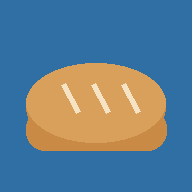
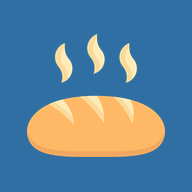
Add files via upload

diff --git a/public/index.html b/public/index.html
@@ -5,13 +5,14 @@
 <link rel="manifest" href="manifest.json">
 <meta name="theme-color" content="#2f6fa3">
 <script>try{var t=localStorage.getItem("bb-theme");if(t==="light"||t==="dark")document.documentElement.setAttribute("data-theme",t)}catch(e){}</script>
-<link rel="apple-touch-icon" href="icon-192.png">
+<link rel="icon" type="image/png" href="icon-192.png">
+<link rel="apple-touch-icon" href="icon-180.png">
 <meta name="apple-mobile-web-app-capable" content="yes">
 <meta name="viewport" content="width=device-width, initial-scale=1, viewport-fit=cover">
-<title>Sourdough Tracker</title>
+<title>Sourdough</title>
 <style>
[1 lines of base64/hex data omitted]
-:root{--bg:#ffffff;--card:#fff;--ink:#1d2b3a;--mute:#5d6e80;--line:#dbe3ec;--div:#c3cbd5;--acc:#2f6fa3;--accbg:#d9e9f7;--ok:#dcefe4;--warn:#fdf0bd;--green:#25634a;--hh:56px;--sw:280px;--hdr:#2f6fa3;--brand:'Lily Script One','Brush Script MT','Segoe Script',cursive;--hov:#f0f3f7;--tsh:-1.5px -1.5px 0 #0a1722,1.5px -1.5px 0 #0a1722,-1.5px 1.5px 0 #0a1722,1.5px 1.5px 0 #0a1722,0 -1.5px 0 #0a1722,0 1.5px 0 #0a1722,-1.5px 0 0 #0a1722,1.5px 0 0 #0a1722,2px 2px 0 #0a1722,3px 3px 0 #0a1722,4px 4px 0 #0a1722;box-sizing:border-box}
[1 lines of base64/hex data omitted]
+:root{--bg:#ffffff;--card:#fff;--ink:#1d2b3a;--mute:#5d6e80;--line:#dbe3ec;--div:#c3cbd5;--acc:#2f6fa3;--accbg:#d9e9f7;--ok:#dcefe4;--warn:#fdf0bd;--green:#25634a;--hh:56px;--sw:280px;--hdr:#2f6fa3;--brand:'Scenesa','Arial Black',Arial,sans-serif;--hov:#f0f3f7;--tsh:-1.5px -1.5px 0 #0a1722,1.5px -1.5px 0 #0a1722,-1.5px 1.5px 0 #0a1722,1.5px 1.5px 0 #0a1722,0 -1.5px 0 #0a1722,0 1.5px 0 #0a1722,-1.5px 0 0 #0a1722,1.5px 0 0 #0a1722,2px 2px 0 #0a1722,3px 3px 0 #0a1722,4px 4px 0 #0a1722;box-sizing:border-box}
 @media (prefers-color-scheme:dark){:root:not([data-theme="light"]){--bg:#121a23;--card:#1b2530;--ink:#e8eef5;--mute:#93a3b5;--line:#2c3947;--div:#3d4b5b;--acc:#7db6e8;--accbg:#264662;--ok:#1f3a2d;--warn:#4a3f17;--green:#7fd1ad;--hdr:#1f4a6e;--hov:#121a23;--btnink:#0b1a28}}:root[data-theme="dark"]{--bg:#121a23;--card:#1b2530;--ink:#e8eef5;--mute:#93a3b5;--line:#2c3947;--div:#3d4b5b;--acc:#7db6e8;--accbg:#264662;--ok:#1f3a2d;--warn:#4a3f17;--green:#7fd1ad;--hdr:#1f4a6e;--hov:#121a23;--btnink:#0b1a28;color-scheme:dark}:root[data-theme="light"]{color-scheme:light}
 *{box-sizing:border-box}html{scroll-padding-top:calc(var(--hh) + env(safe-area-inset-top,0px))}
 body{margin:0;background:var(--bg);color:var(--ink);font:16px/1.4 -apple-system,"Segoe UI",Roboto,sans-serif}
@@ -56,7 +57,7 @@ input,select,textarea{font:inherit;color:var(--ink);background:var(--card);borde
 details{margin-top:6px;font-size:13px}summary{color:var(--acc);cursor:pointer}
 .who{display:flex;align-items:center;gap:12px;margin-bottom:4px}.av{position:relative;width:46px;height:46px;border-radius:50%;background:var(--accbg);color:var(--acc);font-weight:700;font-size:20px;display:flex;align-items:center;justify-content:center;flex:none;overflow:hidden}.av img{position:absolute;inset:0;width:100%;height:100%;object-fit:cover}
 #top{position:fixed;top:0;left:0;right:0;z-index:30;height:calc(var(--hh) + env(safe-area-inset-top,0px));padding-top:env(safe-area-inset-top,0px);background:var(--hdr);color:#fff;display:flex;align-items:center;box-shadow:0 2px 6px rgba(0,0,0,.25)}
-#brand{width:var(--sw);flex:none;display:flex;align-items:center;gap:10px;padding:0 16px;font-weight:700;font-size:19px;white-space:nowrap}#brand img,.nbrand img{height:30px;width:auto}#brand span,.nbrand span{font-family:var(--brand);font-weight:400;font-size:24px;line-height:1.25;letter-spacing:.02em;color:#fff;text-shadow:var(--tsh)}
+#brand{width:var(--sw);flex:none;display:flex;align-items:center;gap:10px;padding:0 16px;font-weight:700;font-size:19px;white-space:nowrap}#brand img,.nbrand img{height:30px;width:auto}#brand span,.nbrand span{font-family:var(--brand);font-weight:400;font-size:24px;line-height:1.25;letter-spacing:.02em;color:#fff;text-shadow:none}
 #top h1{margin:0;font-size:20px;font-weight:700;white-space:nowrap;overflow:hidden;text-overflow:ellipsis;padding:0 16px}
 #mb{display:none;width:44px;height:44px;margin-left:6px;border:0;background:none;color:#fff;align-items:center;justify-content:center;cursor:pointer}#mb .ic{color:#fff;width:26px;height:26px}
 #nav{position:fixed;z-index:25;top:calc(var(--hh) + env(safe-area-inset-top,0px));bottom:0;left:0;width:var(--sw);background:var(--card);border-right:1px solid var(--div);overflow-y:auto;padding:8px 0 calc(12px + env(safe-area-inset-bottom,0px))}
@@ -115,10 +116,11 @@ body.out #ha{display:none}
 .mk .ic{color:var(--acc);fill:var(--acc);opacity:.4}.mk.done .ic,.mk.cur .ic{opacity:1}
 #top h1.long{white-space:normal;font-size:16px;line-height:1.2;display:-webkit-box;-webkit-line-clamp:2;-webkit-box-orient:vertical}
 .mk .ic{overflow:visible}.mk{padding-bottom:8px}
+.so{display:inline-flex;align-items:center;gap:6px;font-size:13px;padding:7px 12px}.so .ic{width:16px;height:16px;color:inherit}
 </style>
 </head>
 <body>
-<header id="top"><button id="mb" aria-label="Menu" data-menu="1"></button><div id="brand"><img src="logo.png" alt=""><span>Sourdough Tracker</span></div><h1 id="ptitle"></h1><div id="ha"></div></header>
+<header id="top"><button id="mb" aria-label="Menu" data-menu="1"></button><div id="brand"><img src="logo.png" alt=""><span>Sourdough</span></div><h1 id="ptitle"></h1><div id="ha"></div></header>
 <div id="scrim" data-menu="0"></div>
 <nav id="nav" aria-label="Main menu"></nav>
 <main><div class="pg"><div class="note" id="sync"></div><div id="app"></div></div></main>
@@ -137,7 +139,7 @@ function save(){STS=Date.now();if(S.run&&S.run.rcp)S.run.mt=STS;persist();sched(
 function flush(){clearTimeout(stimer);if(FB&&USER)FB.pushSet(curSet(),STS)}
 function endRun(){S.run={mt:Date.now()};setBV(false)}
 function $(id){return document.getElementById(id)}
-var OZ=28.3495,VER='2026-11-28 build 27';
+var OZ=28.3495,VER='2026-11-28 build 29';
 function reloadApp(){var p=[];if(navigator.serviceWorker)p.push(navigator.serviceWorker.getRegistrations().then(function(a){return Promise.all(a.map(function(x){return x.unregister()}))}));if(window.caches)p.push(caches.keys().then(function(k){return Promise.all(k.filter(function(n){return n!=='bb-ph'}).map(function(n){return caches.delete(n)}))}));Promise.all(p).catch(function(){}).then(function(){location.reload()})}
 var ICP={flour:'M9 3h6l-1 3c2.5 1.5 4 4 4 7 0 4-2.5 8-6 8s-6-4-6-8c0-3 1.5-5.5 4-7zM9.5 6h5M10 13h4',
 wheat:'M12 22V8M12 8C10.5 6.8 10.5 4.8 12 3c1.5 1.8 1.5 3.8 0 5zM12 12c-2.5 0-4-1.5-4-4 2.5 0 4 1.5 4 4zM12 12c2.5 0 4-1.5 4-4-2.5 0-4 1.5-4 4zM12 17c-2.5 0-4-1.5-4-4 2.5 0 4 1.5 4 4zM12 17c2.5 0 4-1.5 4-4-2.5 0-4 1.5-4 4z',
@@ -173,6 +175,7 @@ camera:'M23 19a2 2 0 0 1-2 2H3a2 2 0 0 1-2-2V8a2 2 0 0 1 2-2h4l2-3h6l2 3h4a2 2 0
 pencil:'M12 20h9M16.5 3.500a2.1 2.1 0 0 1 3 3L7 19l-4 1 1-4z',
 star:'M12 2l3.1 6.3 6.9 1-5 4.9 1.2 6.800L12 17.8 5.8 21l1.2-6.8-5-4.9 6.9-1z',
 pin:'M12 2L6 10A7.5 7.5 0 1 0 18 10z',
+signout:'M9 21H5a2 2 0 0 1-2-2V5a2 2 0 0 1 2-2h4M16 17l5-5-5-5M21 12H9',
 scale:'M12 3v18M5 21h14M5 7h14M5 7l-3 7a3 3 0 0 0 6 0zM19 7l-3 7a3 3 0 0 0 6 0z'},
 IK={bf:'flour',ww:'wheat',w:'water',lv:'jar',sa:'salt'};
 function ic(n){return '<svg class="ic" viewBox="0 0 24 24" fill="none" stroke="currentColor" stroke-width="1.8" stroke-linecap="round" stroke-linejoin="round" aria-hidden="true"><path d="'+ICP[n]+'"/></svg>'}
@@ -194,14 +197,17 @@ function uname(){return USER.displayName||USER.email||'Signed in'}
 function avHtml(px){var n=uname(),ph=USER.photoURL,ini=esc(String(n).charAt(0).toUpperCase());
  return '<span class="av"'+(px?' style="width:'+px+'px;height:'+px+'px;font-size:'+Math.round(px*.43)+'px"':'')+'>'+ini+(ph?'<img src="'+esc(ph)+'" alt="" referrerpolicy="no-referrer" onerror="this.remove()">':'')+'</span>'}
 function navHtml(){var it=[['recipes','sliders','Recipes'],['bakes','clock','Bakes'],['settings','gear','Settings']],cur=PAGE==='editor'?'recipes':PAGE;
- return '<div class="nbrand"><img src="logo.png" alt=""><span>Sourdough Tracker</span></div>'
+ return '<div class="nbrand"><img src="logo.png" alt=""><span>Sourdough</span></div>'
  +it.map(function(x){return '<button class="ni'+(cur===x[0]?' on':'')+'" data-pg="'+x[0]+'">'+ic(x[1])+'<span>'+x[2]+'</span></button>'}).join('')
  +'<div class="nh">Account</div><button class="ni'+(PAGE==='profile'?' on':'')+'" data-pg="profile">'+avHtml(0)+'<span class="nm">'+esc(uname())+'</span></button>'
  +'<div class="navbot">Version '+esc(VER)+'</div>'}
-function profHtml(){return '<div class="card" style="text-align:center"><div style="display:flex;justify-content:center">'+avHtml(96)+'</div><h2 style="justify-content:center;margin:12px 0 2px">'+esc(uname())+'</h2>'+(USER.displayName&&USER.email?'<div class="note" style="margin:0">'+esc(USER.email)+'</div>':'')+'</div><div class="card"><button class="btn" style="background:var(--mute);margin-top:0" data-out="1">Sign out</button></div>'}
+function memSince(){var d=null;try{var c=USER.metadata&&USER.metadata.creationTime;if(c)d=new Date(c)}catch(e){}
+ if(!d||isNaN(d)){var a=[];LOG.forEach(function(l){if(l.ts)a.push(+l.ts)});RCP.forEach(function(r){if(r.ts)a.push(+r.ts)});if(a.length)d=new Date(Math.min.apply(null,a))}
+ return d&&!isNaN(d)?'<div class="note" style="margin:2px 0 0">Member since '+p2(d.getMonth()+1)+'-'+p2(d.getDate())+'-'+d.getFullYear()+'</div>':''}
+function profHtml(){return '<div class="card" style="text-align:center"><div style="display:flex;justify-content:center">'+avHtml(96)+'</div><h2 style="justify-content:center;margin:12px 0 2px">'+esc(uname())+'</h2>'+(USER.displayName&&USER.email?'<div class="note" style="margin:0">'+esc(USER.email)+'</div>':'')+memSince()+'</div><div class="card" style="text-align:center"><button class="sb so" data-out="1">'+ic('signout')+'Sign out</button></div>'}
 function setHtml(){var rows=function(a){return a.join('')};
- return sgrp('Units',erow('scale','Weights',sbs([[0,'Metric'],[1,'US']],S.lb?1:0,function(v){return 'data-k="lb" data-v="'+v+'"'}))+erow('therm','Temperature',sbs([[0,'°F'],[1,'°C']],S.tc?1:0,function(v){return 'data-k="tc" data-v="'+v+'"'}))+'<div class="note" style="padding:4px 8px 0">With US weights, recipe boxes take ounces. Saved bakes convert automatically.</div>')
- +sgrp('General',erow('jar','Starter name','<input class="sin" id="sname" maxlength="40" placeholder="Name your starter" value="'+esc(S.sn||'')+'">')+erow('book','Next bake number','<input class="sin" id="nbake" type="number" inputmode="numeric" min="1" step="1" value="'+((+S.bn||0)+1)+'">')+'<div class="note" style="padding:4px 8px 0">The next bake you start gets this number, then it counts up from there.</div>'+erow('sun','Theme',sbs([['system','Auto'],['light','Light'],['dark','Dark']],THEME,function(v){return 'data-th="'+v+'"'}))+'<div class="note" style="padding:4px 8px 0">Auto follows your device. Theme applies to this device only.</div>')
+ return sgrp('General',erow('jar','Starter name','<input class="sin" id="sname" maxlength="40" placeholder="Name your starter" value="'+esc(S.sn||'')+'">')+erow('book','Next bake number','<input class="sin" id="nbake" type="number" inputmode="numeric" min="1" step="1" value="'+((+S.bn||0)+1)+'">')+'<div class="note" style="padding:4px 8px 0">The next bake you start gets this number, then it counts up from there.</div>'+erow('sun','Theme',sbs([['system','Auto'],['light','Light'],['dark','Dark']],THEME,function(v){return 'data-th="'+v+'"'}))+'<div class="note" style="padding:4px 8px 0">Auto follows your device. Theme applies to this device only.</div>')
+ +sgrp('Units',erow('scale','Weights',sbs([[0,'Metric'],[1,'US']],S.lb?1:0,function(v){return 'data-k="lb" data-v="'+v+'"'}))+erow('therm','Temperature',sbs([[0,'°F'],[1,'°C']],S.tc?1:0,function(v){return 'data-k="tc" data-v="'+v+'"'}))+'<div class="note" style="padding:4px 8px 0">With US weights, recipe boxes take ounces. Saved bakes convert automatically.</div>')
  +sgrp('Application',erow('reload','Refresh application','<button class="sb" data-rl="1">Refresh</button>')+'<div class="note" style="padding:4px 8px 0">Loads the latest version of the app. Your recipes and bakes stay saved.</div>')
  +'<details style="margin:6px 0 0"><summary>Import from the old GitHub sync</summary><div class="lbl">GitHub username</div><input id="gu" autocapitalize="none" autocorrect="off"><div class="lbl">Data repo name</div><input id="gr" value="sourdough-data" autocapitalize="none" autocorrect="off"><div class="lbl">Read-only access token</div><input id="gt" type="password" autocomplete="off"><button class="btn" data-imp="1">Import my old bakes</button><div class="note" id="imps"></div></details>'}
 function cp(o){return JSON.parse(JSON.stringify(o))}

diff --git a/public/sw.js b/public/sw.js
@@ -1,4 +1,4 @@
-var V='sourdough-v6',FILES=['./','index.html','manifest.json','firebase-config.js','logo.png','icon-192.png','icon-512.png'];
+var V='sourdough-v7',FILES=['./','index.html','manifest.json','firebase-config.js','logo.png','icon-192.png','icon-180.png','icon-512.png'];
 self.addEventListener('install',function(e){e.waitUntil(caches.open(V).then(function(c){return c.addAll(FILES)}).then(function(){return self.skipWaiting()}))});
 self.addEventListener('activate',function(e){e.waitUntil(caches.keys().then(function(ks){return Promise.all(ks.filter(function(k){return k!==V&&k!=='bb-ph'}).map(function(k){return caches.delete(k)}))}).then(function(){return self.clients.claim()}))});
 self.addEventListener('fetch',function(e){var u=new URL(e.request.url);if(e.request.method!=='GET'||u.origin!==location.origin||u.pathname.indexOf('/__/')===0)return;
